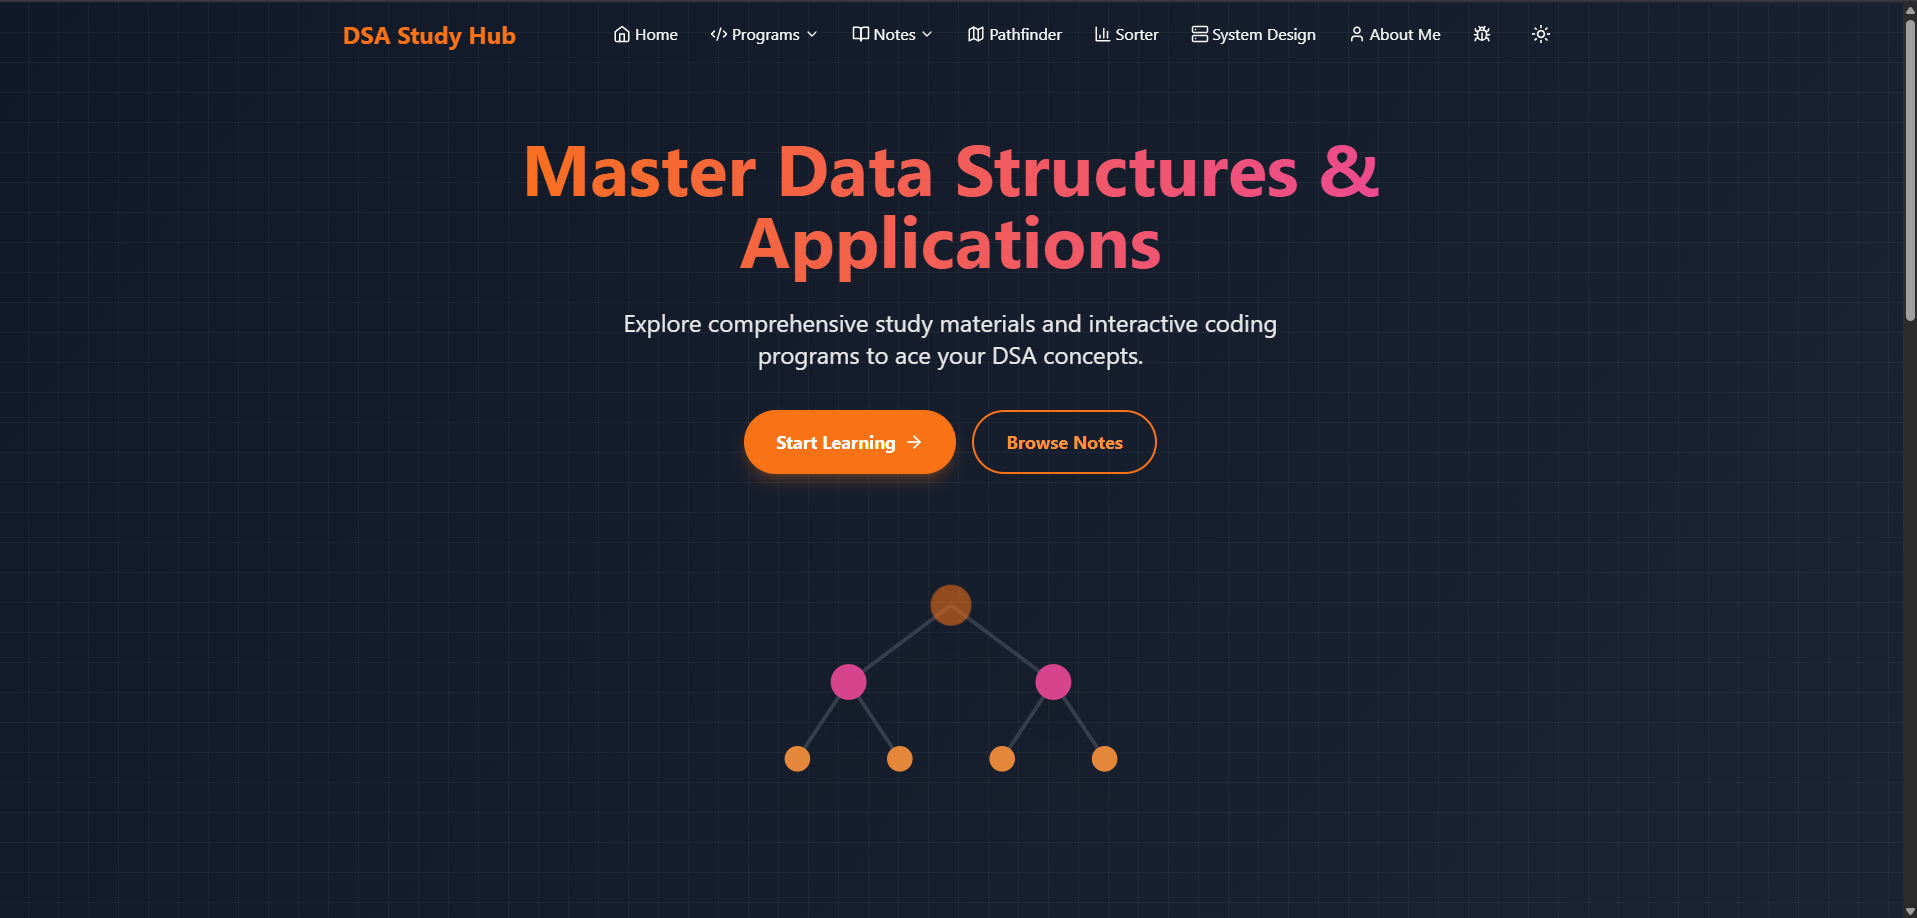
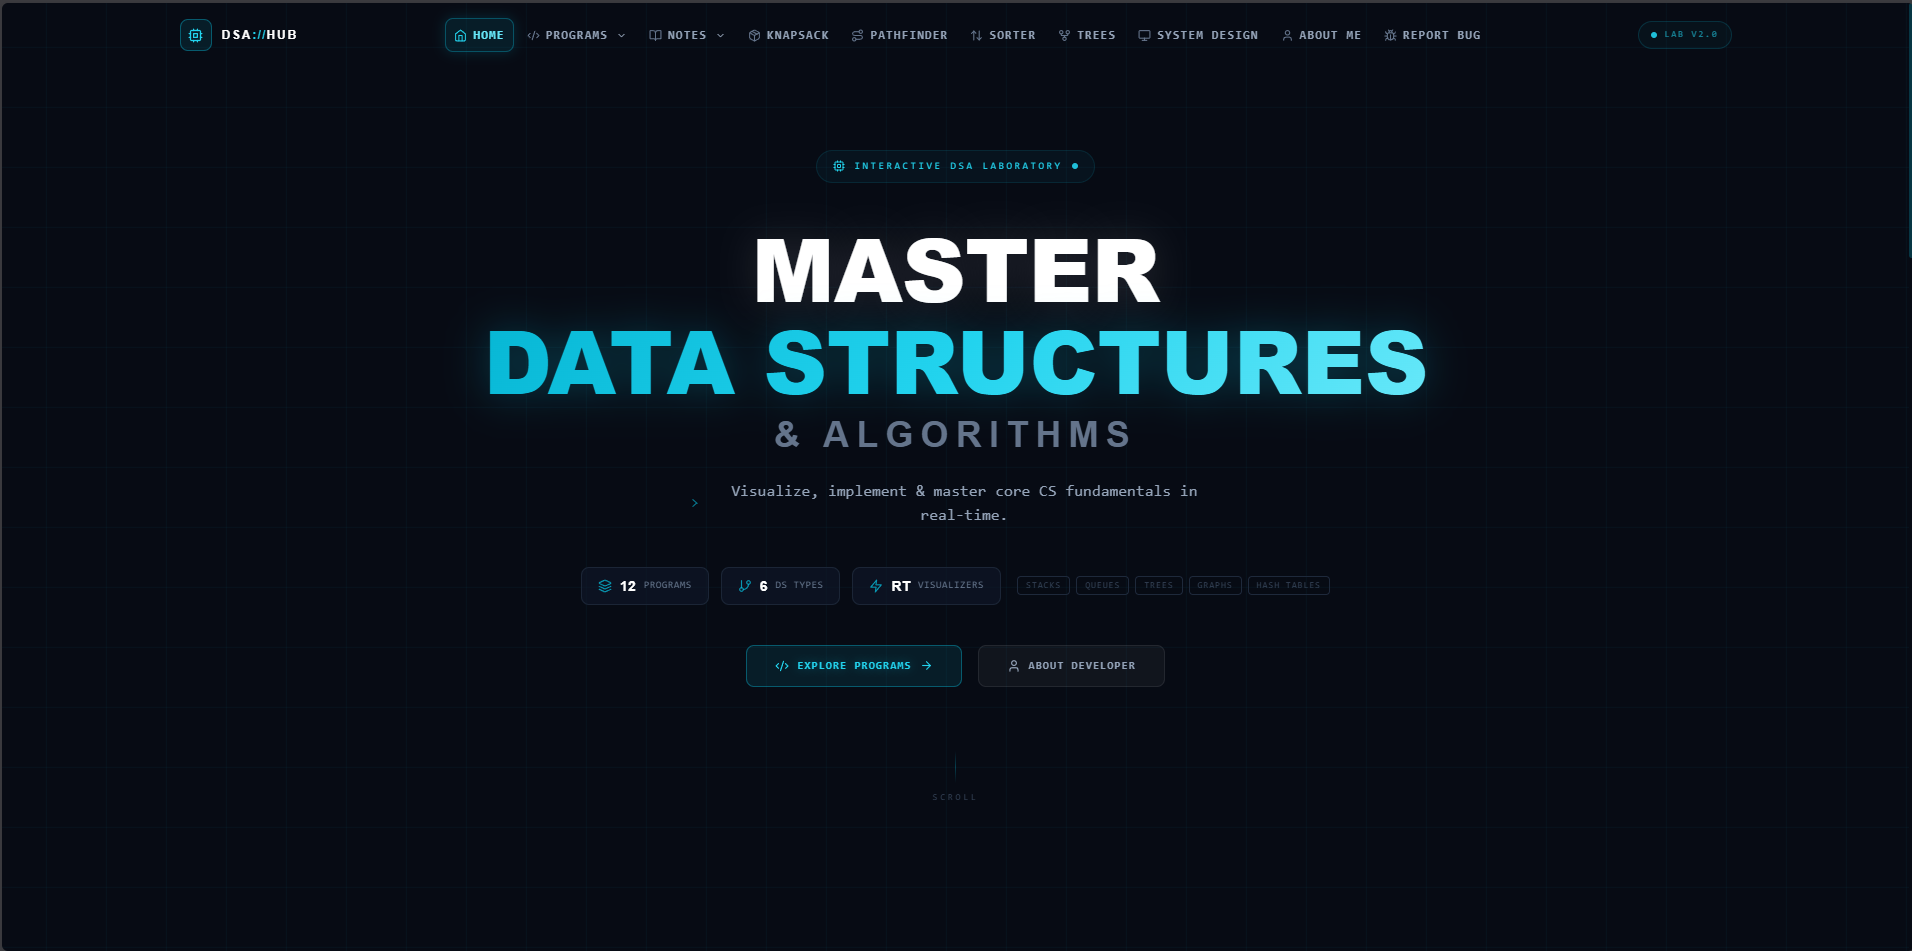
Add blockchain voting project and update costofliving image format

diff --git a/components/main/Projects.tsx b/components/main/Projects.tsx
@@ -24,7 +24,13 @@ const Projects = () => {
                     link="https://dsa-study-hub.vercel.app/"
                 />
                 <ProjectCard
-                    src="/projects/costoflivingbenagluru.jpeg"
+                    src="/projects/voting-system.png"
+                    title="A Multi-Modal Blockchain Based Voting System"
+                    description="A tamper-proof election platform integrating biometric facial recognition with decentralized Ethereum ledgers."
+                    link="#"
+                />
+                <ProjectCard
+                    src="/projects/costoflivingbenagluru.png"
                     title="Bengaluru-cost-explorer"
                     description="An interactive explorer for analyzing and visualizing the cost of living and real estate trends in Bengaluru."
                     link="https://github.com/Mohammed0572/bengaluru-cost-explorer"